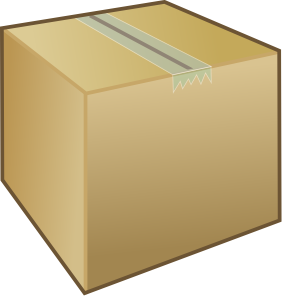
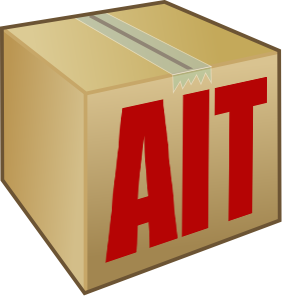
finished hbbtv initialization

Changed region(s): [[0.3688, 0.2432, 0.9645, 0.8818]]

diff --git a/index.html b/index.html
@@ -268,18 +268,25 @@
                         </div>
                     </section>
                     <section data-background="#fff" style="width: 1920px; height: 1080px;">
-                        <img src="/img/broadcaster.png" alt="broadcaster" style="position: absolute; top: 0; left: 50%; width: 200px; border: 0; box-shadow: none; margin-left: -100px;">
-                        <img src="/img/tv_wo_hbbtv.svg" alt="broadcaster" style="position: absolute; top: 59%; left: 50%; width: 500px; border: 0; box-shadow: none; margin-left: -250px;">
-                        <img src="/img/arrow.svg" alt="broadcaster" style="position: absolute; top: 9%; left: 30%; width: 500px; border: 0; box-shadow: none; margin-left: -250px; z-index: 0;">
-                        <img src="/img/dvb-t.png" alt="broadcaster" style="position: absolute; top: 40%; left: 22%; width: 150px; border: 0; margin-left: -250px; background-color: #fff; padding: 10px; box-shadow: 0 0 10px rgba(0, 0, 0, 0.15); z-index: 1;">
-                        <img src="/img/arrow.svg" alt="broadcaster" style="position: absolute; top: 6%; left: 27%; width: 567px; border: 0; box-shadow: none; margin-left: -250px; z-index: 0;">
-                        <img src="/img/dvb-s.png" alt="broadcaster" style="position: absolute; top: 47%; left: 25%; width: 150px; border: 0; margin-left: -250px; background-color: #fff; padding: 10px; box-shadow: 0 0 10px rgba(0, 0, 0, 0.15); z-index: 1;">
-                        <img src="/img/arrow.svg" alt="broadcaster" style="position: absolute; top: 3%; left: 24%; width: 634px; border: 0; box-shadow: none; margin-left: -250px; z-index: 0;">
-                        <img src="/img/dvb-c.png" alt="broadcaster" style="position: absolute; top: 53.5%; left: 29%; width: 150px; border: 0; margin-left: -250px; background-color: #fff; padding: 10px; box-shadow: 0 0 10px rgba(0, 0, 0, 0.15); z-index: 1;">
+                        <img src="/img/broadcaster.png" alt="broadcaster" class="fragment" style="position: absolute; top: 0; left: 50%; width: 200px; border: 0; box-shadow: none; margin-left: -100px;">
+                        <img class="fragment" src="/img/tv_wo_hbbtv.svg" alt="broadcaster" style="position: absolute; top: 59%; left: 50%; width: 500px; border: 0; box-shadow: none; margin-left: -250px;">
+    					<div class="fragment dvb_types">
+                            <img src="/img/arrow.svg" class="dvb2_arrow" alt="broadcaster" style="position: absolute; top: 9%; left: 30%; width: 500px; border: 0; box-shadow: none; margin-left: -250px; z-index: 0;">
+                            <img src="/img/dvb-t.png" class="dvb1" alt="broadcaster" style="position: absolute; top: 40%; left: 22%; width: 150px; border: 0; margin-left: -250px; background-color: #fff; padding: 10px; box-shadow: 0 0 10px rgba(0, 0, 0, 0.15); z-index: 1;">
+                            <img src="/img/arrow.svg" class="dvb1_arrow" alt="broadcaster" style="position: absolute; top: 6%; left: 27%; width: 567px; border: 0; box-shadow: none; margin-left: -250px; z-index: 0;">
+                            <img src="/img/dvb-s.png" class="dvb2" alt="broadcaster" style="position: absolute; top: 47%; left: 25%; width: 150px; border: 0; margin-left: -250px; background-color: #fff; padding: 10px; box-shadow: 0 0 10px rgba(0, 0, 0, 0.15); z-index: 1;">
+                            <img src="/img/arrow.svg" class="dvb3_arrow" alt="broadcaster" style="position: absolute; top: 3%; left: 24%; width: 634px; border: 0; box-shadow: none; margin-left: -250px; z-index: 0;">
+                            <img src="/img/dvb-c.png" class="dvb3" alt="broadcaster" style="position: absolute; top: 53.5%; left: 29%; width: 150px; border: 0; margin-left: -250px; background-color: #fff; padding: 10px; box-shadow: 0 0 10px rgba(0, 0, 0, 0.15); z-index: 1;">
+                        </div>
 
-                        <img src="/img/arrow.svg" alt="broadcaster" style="position: absolute; top: 6%; left: 68%; width: 567px; border: 0; box-shadow: none; margin-left: -250px; z-index: 0; transform: scaleX(-1)">
-                        <img src="/img/cloud.svg" alt="broadcaster" style="position: absolute; top: 11%; left: 78%; width: 567px; border: 0; box-shadow: none; margin-left: -250px; z-index: 0;">
-                        <img id="ait" src="/img/ait.png" alt="AIT Package">
+                        <img class="fragment ait_package" id="ait" src="/img/ait.png" alt="AIT Package">
+
+                        <div class="fragment">
+                            <img src="/img/arrow.svg" alt="broadcaster" style="position: absolute; top: 6%; left: 68%; width: 567px; border: 0; box-shadow: none; margin-left: -250px; z-index: 0; transform: scaleX(-1)">
+                            <img src="/img/cloud.svg" alt="broadcaster" style="position: absolute; top: 11%; left: 78%; width: 567px; border: 0; box-shadow: none; margin-left: -250px; z-index: 0;">
+                        </div>
+
+                        <img class="fragment" src="/img/hbbtv_overlay.png" alt="broadcaster" style="position: absolute; top: 59%; left: 50%; width: 500px; border: 0; box-shadow: none; margin-left: -250px;">
                     </section>
                     <section
                         data-background-video="/videos/ard.mp4"
@@ -415,6 +422,19 @@
                     setTimeout(() => document.querySelector('.roku_tv').className += " showme", 200)
                     setTimeout(() => document.querySelector('.tizen_os').className += " showme", 300)
                     setTimeout(() => document.querySelector('.web_os').className += " showme", 400)
+                }
+
+                if (event.fragment.className.indexOf('ait_package') > -1) {
+                    document.querySelector('#ait').className += " animate";
+                }
+
+                if (event.fragment.className.indexOf('dvb_types') > -1) {
+                    document.querySelector('.dvb1').className += " showme";
+                    document.querySelector('.dvb3_arrow').className += " showme";
+                    setTimeout(() => document.querySelector('.dvb2').className += " showme", 200)
+                    setTimeout(() => document.querySelector('.dvb1_arrow').className += " showme", 200)
+                    setTimeout(() => document.querySelector('.dvb3').className += " showme", 400)
+                    setTimeout(() => document.querySelector('.dvb2_arrow').className += " showme", 400)
                 }
             });
 		</script>

diff --git a/css/presentation.css b/css/presentation.css
@@ -88,7 +88,15 @@ h2.driver {
     transition: opacity 0.3s;
 }
 
-.reveal section img.tv_os.showme {
+.reveal .dvb1, .reveal .dvb2, .reveal .dvb3,
+.reveal .dvb1_arrow, .reveal .dvb2_arrow, .reveal .dvb3_arrow {
+    opacity: 0;
+    transition: opacity 0.3s;
+}
+
+.reveal section img.tv_os.showme,
+.reveal .dvb1.showme, .reveal .dvb2.showme, .reveal .dvb3.showme,
+.reveal .dvb1_arrow.showme, .reveal .dvb2_arrow.showme, .reveal .dvb3_arrow.showme {
     opacity: 1;
 }
 
@@ -124,11 +132,29 @@ h2.driver {
     top: 9%;
     left: 17%;
     offset-path: path('m471.98398 8.0c-51.10675 14.763205 -236.05096 38.75591 -306.64038 88.57923c-70.58943 49.823326 -107.57827 126.09252 -116.89619 210.36072c-9.317917 84.26819 7.3405647 229.43237 60.988693 295.24847c26.824059 32.908142 81.17823 53.66815 134.26181 68.27728c26.541794 7.3045044 52.765945 13.071289 75.07234 18.049988c11.153198 2.4893188 21.326965 4.781555 30.071259 6.97052c1.0930481 0.2736206 2.1637573 0.54571533 3.2112427 0.81622314l1.0679321 0.27825928');
-    animation: pathy 3200ms infinite linear;
+}
+
+.animate {
+    animation-name: pathy;
+    animation-duration: 3200ms;
+    animation-timing-function: linear;
+}
+#ait.animate {
+    width: 0;
 }
 
 @keyframes pathy {
-  100% {
-    offset-distance: 100%;
-  }
+    from {
+        width: 0px;
+    }
+    10% {
+        width: 100px;
+    }
+    90% {
+        width: 100px;
+    }
+    100% {
+        width: 0;
+        offset-distance: 100%;
+    }
 }
